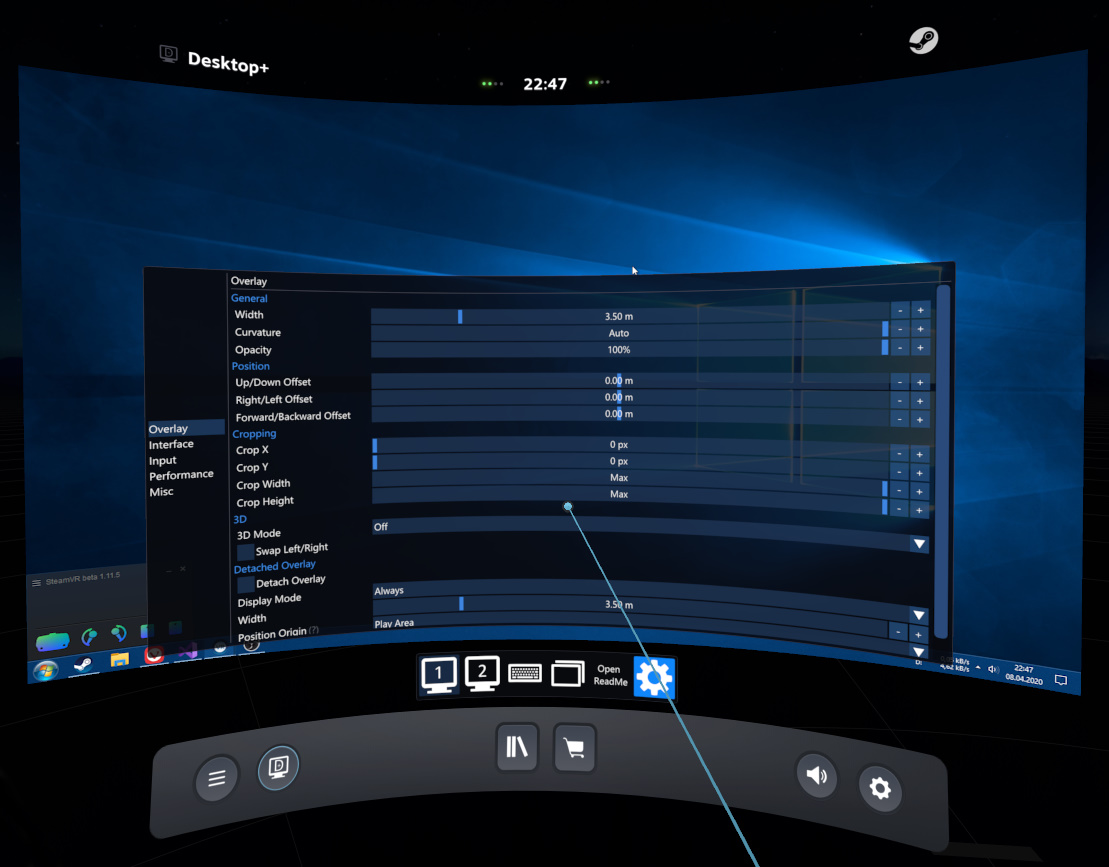
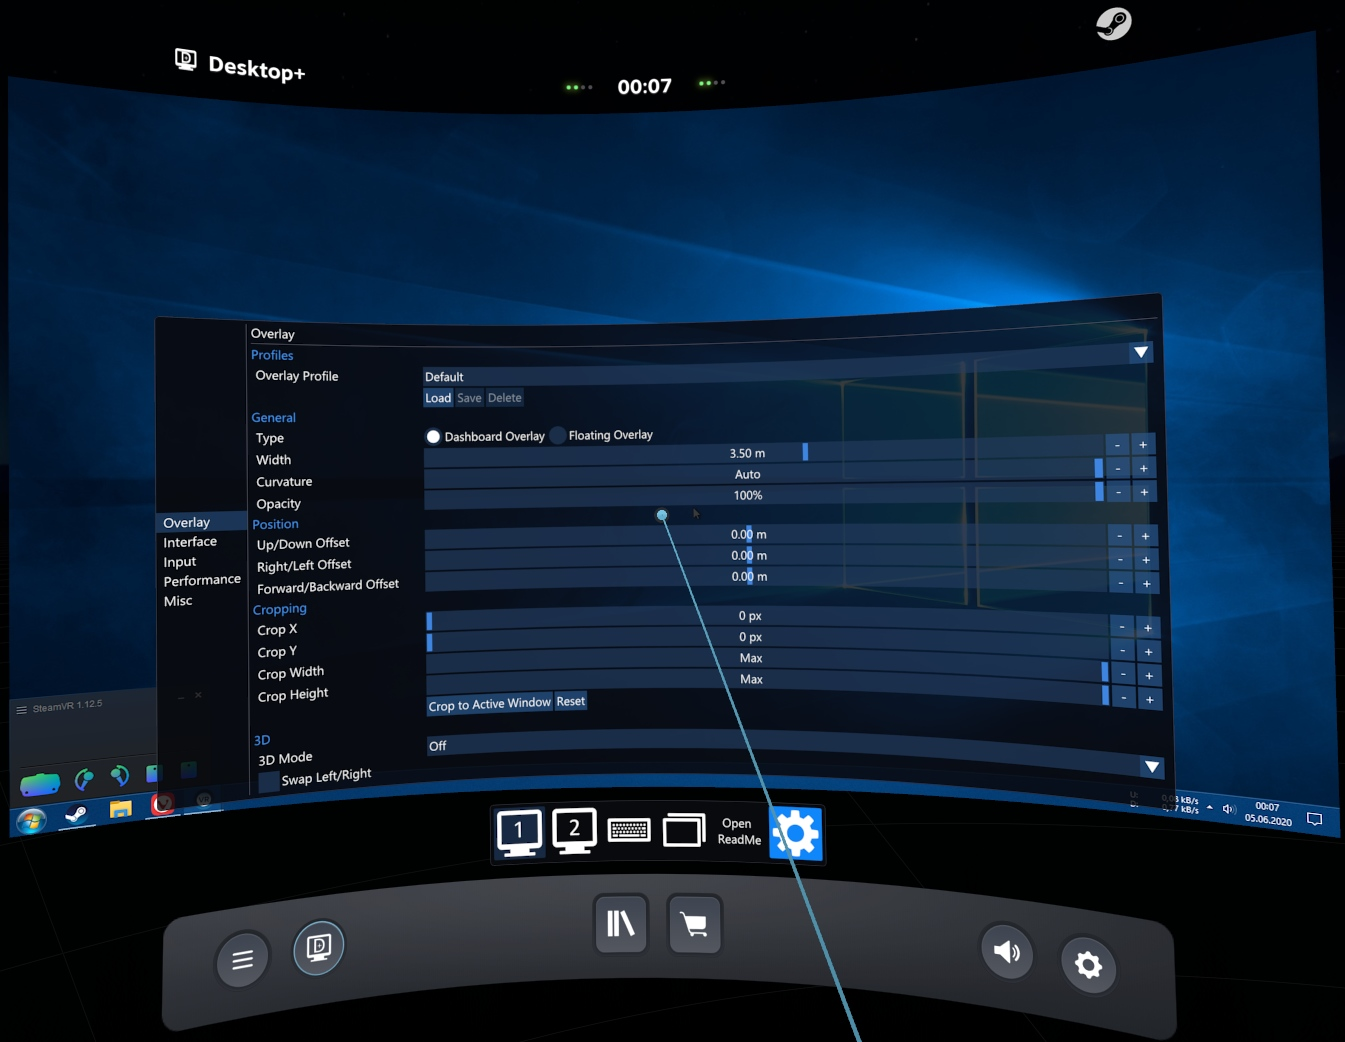
Update documentation and bump version to 2.1

diff --git a/src/DesktopPlusUI/WindowSettings.cpp b/src/DesktopPlusUI/WindowSettings.cpp
@@ -1527,7 +1527,7 @@ void WindowSettings::UpdateCatMisc()
         ImGui::Columns(2, "ColumnVersionInfo", false);
         ImGui::SetColumnWidth(0, column_width_0 * 2.0f);
 
-        ImGui::Text("Desktop+ Version 2.0.1");
+        ImGui::Text("Desktop+ Version 2.1");
 
         ImGui::Columns(1);
     }

diff --git a/README.md b/README.md
@@ -16,6 +16,7 @@ Advanced desktop access for OpenVR.
 - Actions: User-definable functions (input simulation, running applications) which can be bound to controller or UI buttons
 - Keyboard Extension, enabling use of modifier, arrow and function keys
 - Elevated access toggle, making it possible to deal with UAC prompts and other UIP-restricted UI in VR without using full admin-access at all times
+- Gaze Fade, fade-out overlay when not looking at it
 
 ## Usage
 
@@ -35,6 +36,7 @@ After building, add the contents of the [assets](assets) directory to the execut
 [comment]: # (Honestly kind of lost here. Would've preferred to host the clips on the repo, but people probably want them to play in the browser and not download instead)
 
 A few short videos showcasing some of Desktop+' features:
+- [Version 2.1 Showcase: Gaze Fade, Auto Interaction Toggle, Crop to Active Window, FPS-based Limiter](http://www.elvissteinjr.net/dplus/demo_v2_1_showcase.mp4)
 - [Custom Actions](http://www.elvissteinjr.net/dplus/demo_custom_action.mp4)
 - [Floating Overlay](http://www.elvissteinjr.net/dplus/demo_detached.mp4)
 - [Cropping & Floating Overlay Origins](http://www.elvissteinjr.net/dplus/demo_detached_cropping.mp4)
